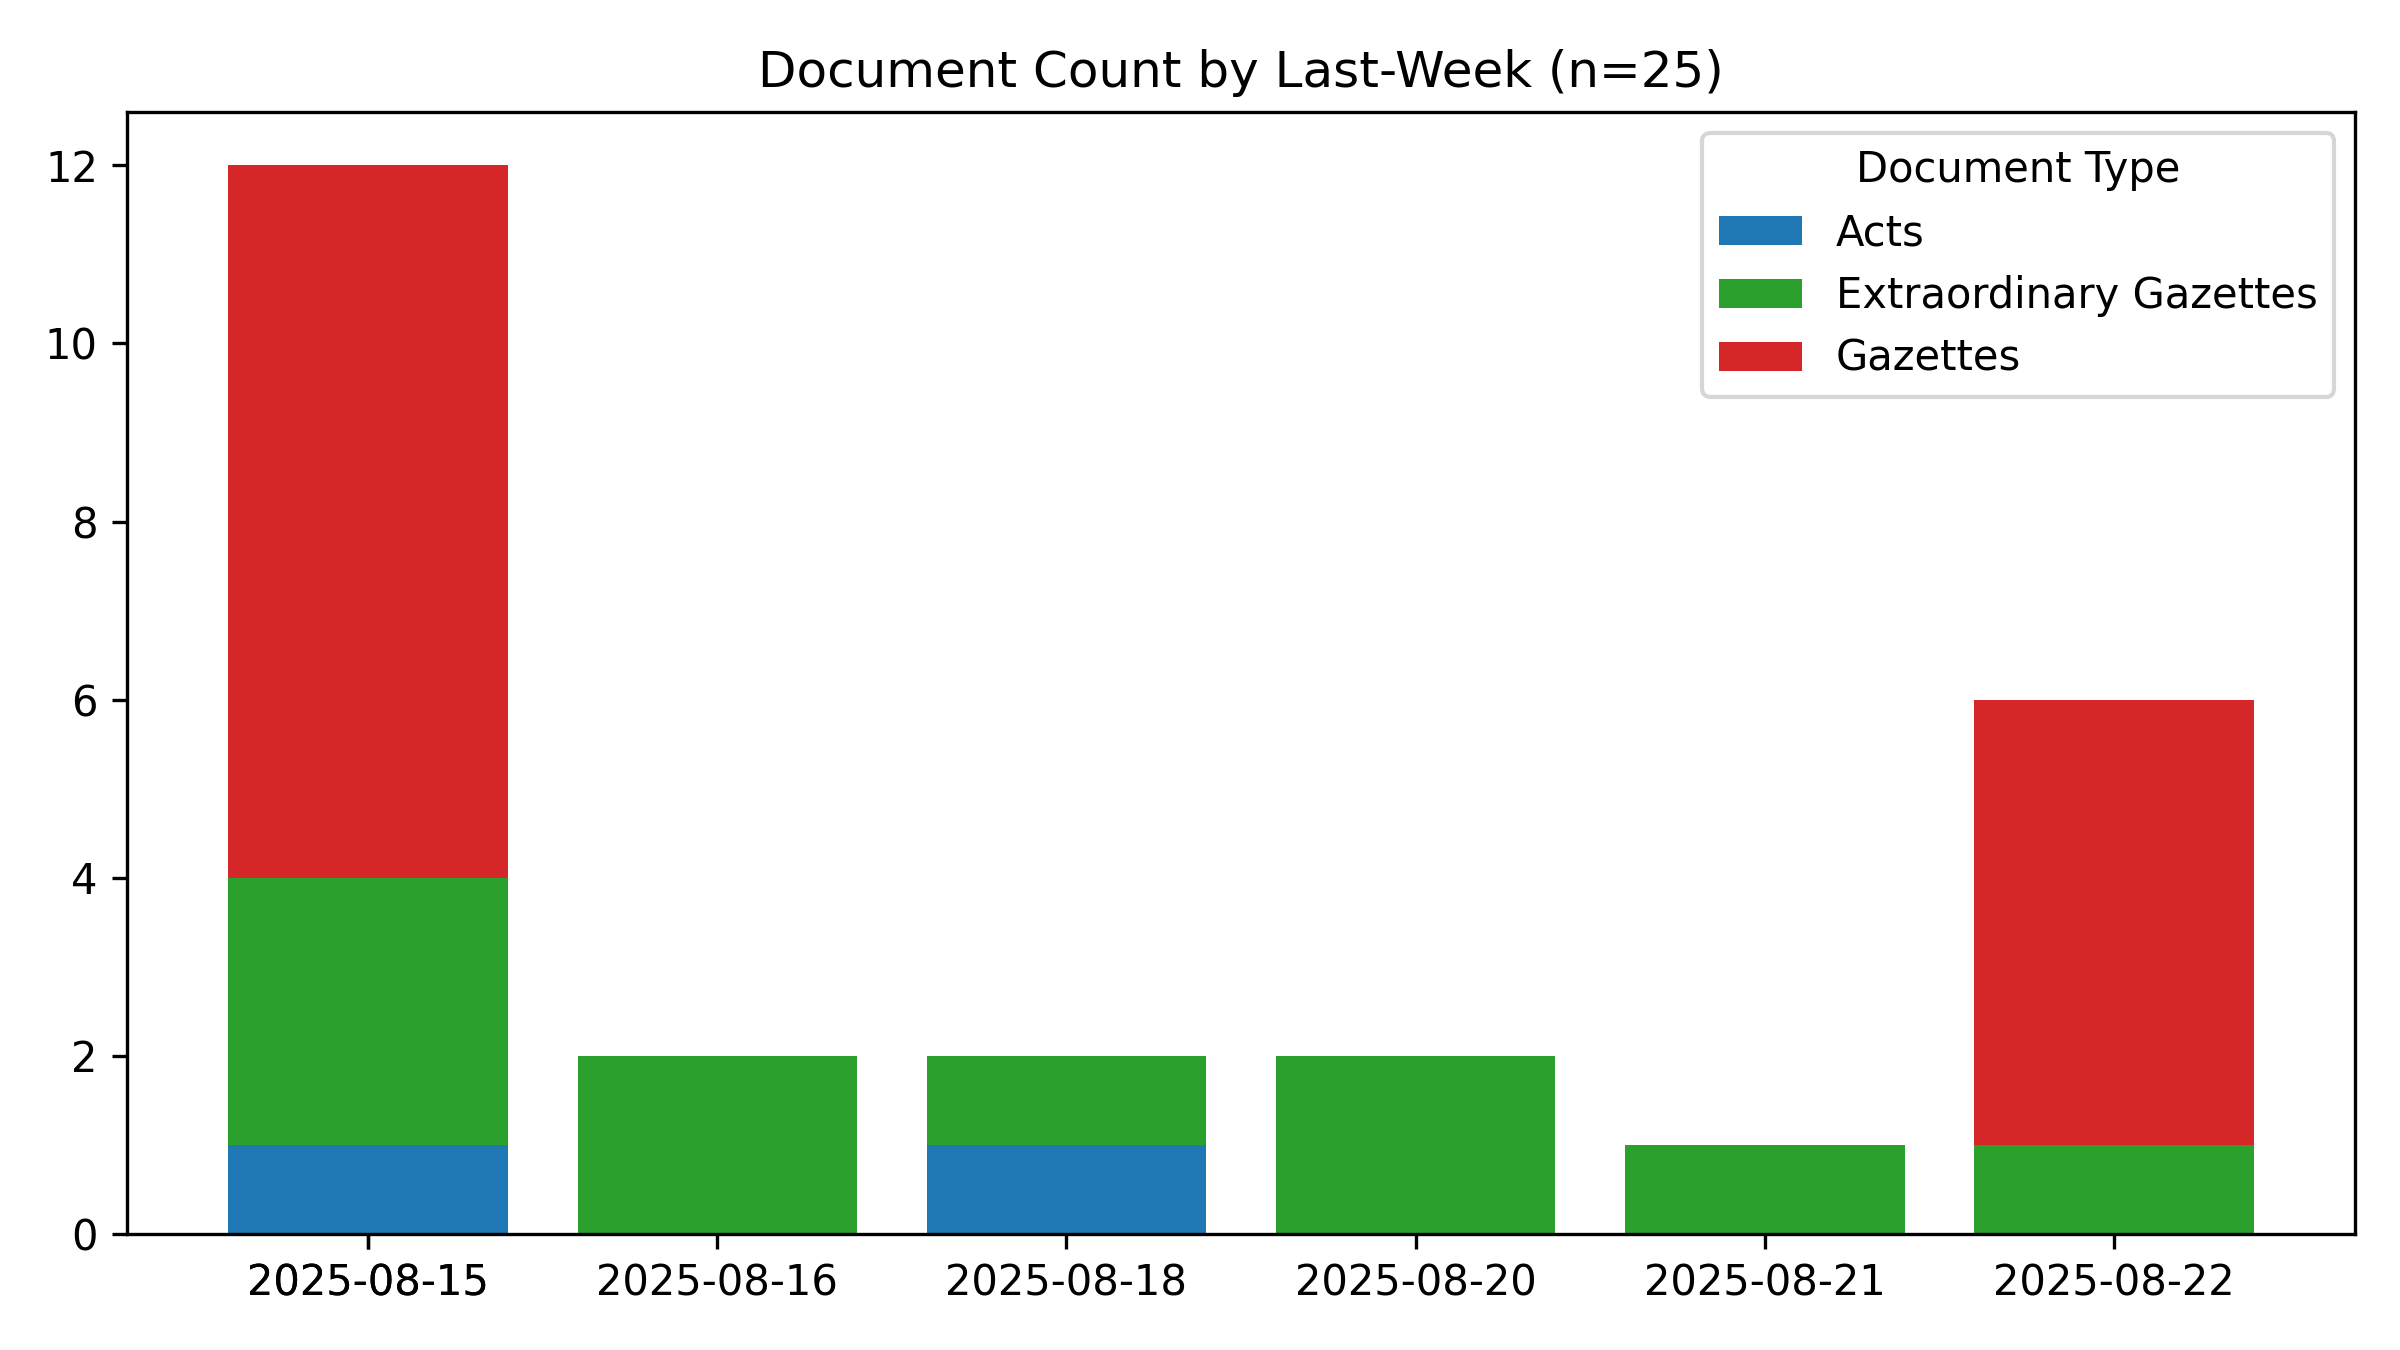
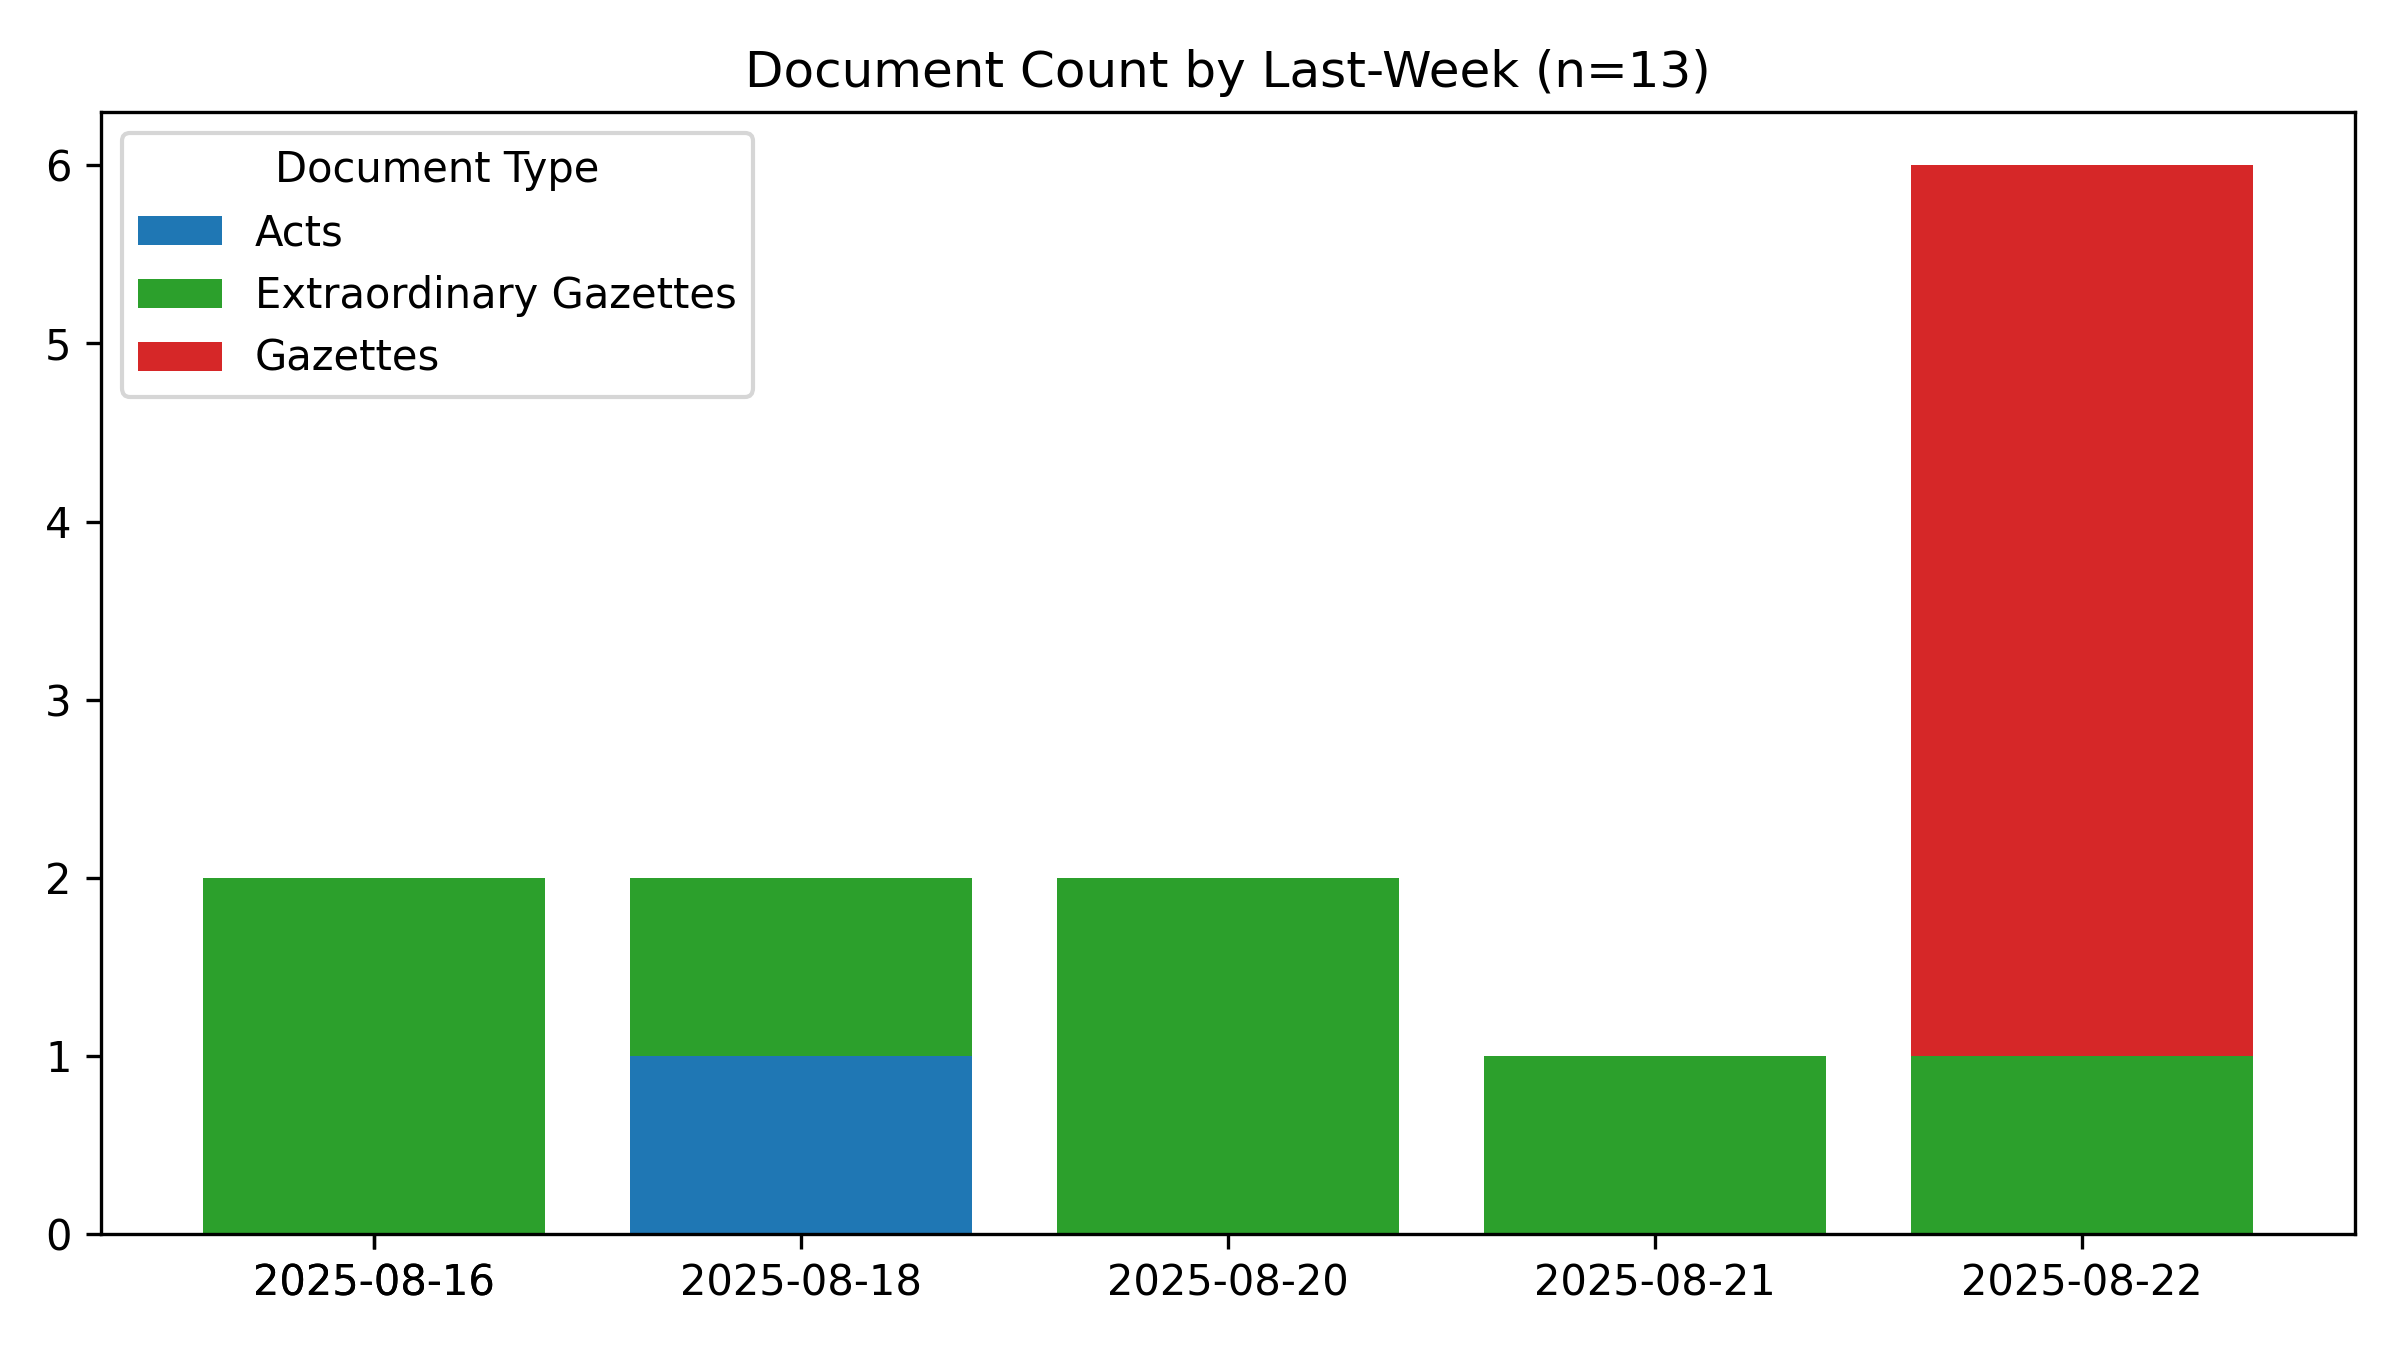
🤖 [build_readme.yml] 2025-08-23-0015

Changed region(s): [[0.0, 0.0933, 0.9688, 0.9644], [0.3125, 0.0311, 0.7188, 0.0622]]

diff --git a/README.md b/README.md
@@ -1,6 +1,6 @@
 # #SriLanka 🇱🇰 - Legal Documents #Dataset
 
-*Last Updated **2025-08-23 05:12:56**.*
+*Last Updated **2025-08-23 05:45:06**.*
 
 **44,401** documents (24.3 MB), from 1981-01-22 to 2025-08-22.
 
@@ -54,7 +54,7 @@ For best results, use a desktop browser.
 
 ## Recent Documents (Published during the last 7 days)
 
-**25** Documents
+**13** Documents
 
 - 🚨 [2025-08-22] [Dept. of Census and Statistics- National Consumer Price Index- July 2025](https://github.com/nuuuwan/lk_legal_docs_data/tree/data_2020s/data/extra-gazettes/2025/2450-43)
 - 📢 [2025-08-22] [Land Section](https://github.com/nuuuwan/lk_legal_docs_data/tree/data_2020s/data/gazettes/2025/2025-08-22-land-section)
@@ -69,15 +69,3 @@ For best results, use a desktop browser.
 - 🏛 [2025-08-18] [Sri Lanka Electricity (Amendment)](https://github.com/nuuuwan/lk_legal_docs_data/tree/data_2020s/data/acts/2025/14-2025)
 - 🚨 [2025-08-16] [M/of Public Administration- Appointments Under the Notaries Ordinance](https://github.com/nuuuwan/lk_legal_docs_data/tree/data_2020s/data/extra-gazettes/2025/2449-72)
 - 🚨 [2025-08-16] [M/ of Public Administration- Appointments Under the Notaries Ordinance](https://github.com/nuuuwan/lk_legal_docs_data/tree/data_2020s/data/extra-gazettes/2025/2449-71)
-- 🚨 [2025-08-15] [2449/63](https://github.com/nuuuwan/lk_legal_docs_data/tree/data_2020s/data/extra-gazettes/2025/2449-63)
-- 🚨 [2025-08-15] [2449/62](https://github.com/nuuuwan/lk_legal_docs_data/tree/data_2020s/data/extra-gazettes/2025/2449-62)
-- 🚨 [2025-08-15] [2449/61](https://github.com/nuuuwan/lk_legal_docs_data/tree/data_2020s/data/extra-gazettes/2025/2449-61)
-- 📢 [2025-08-15] [Legal Section](https://github.com/nuuuwan/lk_legal_docs_data/tree/data_2020s/data/gazettes/2025/2025-08-15-legal-section)
-- 📢 [2025-08-15] [Land Section](https://github.com/nuuuwan/lk_legal_docs_data/tree/data_2020s/data/gazettes/2025/2025-08-15-land-section)
-- 📢 [2025-08-15] [IV (B) - Local Government](https://github.com/nuuuwan/lk_legal_docs_data/tree/data_2020s/data/gazettes/2025/2025-08-15-iv-b-local-government)
-- 📢 [2025-08-15] [IV (A) - Provincial Councils](https://github.com/nuuuwan/lk_legal_docs_data/tree/data_2020s/data/gazettes/2025/2025-08-15-iv-a-provincial-councils)
-- 📢 [2025-08-15] [(III) - TRADE MARKS AND PATENT NOTICES](https://github.com/nuuuwan/lk_legal_docs_data/tree/data_2020s/data/gazettes/2025/2025-08-15-iii-trade-marks-and-patent-notices)
-- 📢 [2025-08-15] [(IIB) - Advertising](https://github.com/nuuuwan/lk_legal_docs_data/tree/data_2020s/data/gazettes/2025/2025-08-15-iib-advertising)
-- 📢 [2025-08-15] [(IIA) - Advertising](https://github.com/nuuuwan/lk_legal_docs_data/tree/data_2020s/data/gazettes/2025/2025-08-15-iia-advertising)
-- 📢 [2025-08-15] [(I) - General](https://github.com/nuuuwan/lk_legal_docs_data/tree/data_2020s/data/gazettes/2025/2025-08-15-i-general)
-- 🏛 [2025-08-15] [Bills of Exchange (Amendment)](https://github.com/nuuuwan/lk_legal_docs_data/tree/data_2020s/data/acts/2025/13-2025)
